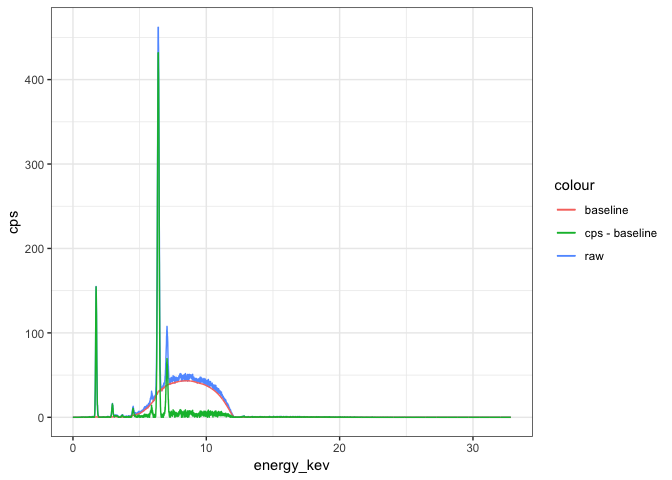
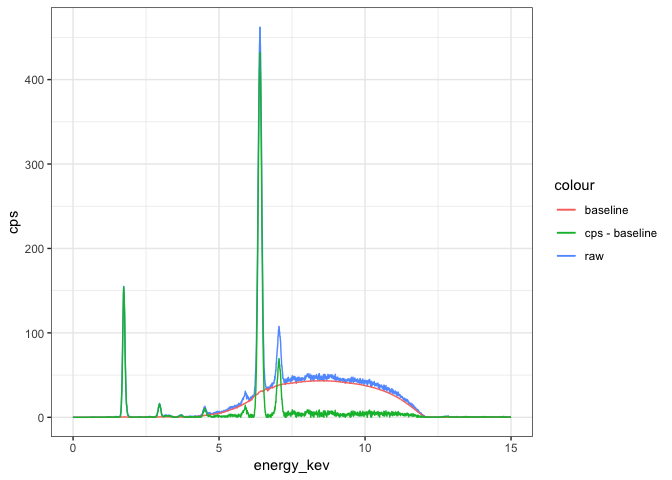
add smoothing function

diff --git a/README.md b/README.md
@@ -39,25 +39,55 @@ specs %>%
 ![](README-example-1.png)
 
 Baselines
-=========
+---------
 
 The **xrf** package can use several existing methods for estimating "background" or "baseline" values. The most useful of these for XRF spectra is the Sensitive Nonlinear Iterative Peak (SNIP) method, implemented in the **Peaks** package.
 
 ``` r
 specs %>%
-  xrf_add_baseline_snip(iterations = 20) %>%
   slice(3) %>%
+  xrf_add_baseline_snip(iterations = 20) %>%
   unnest() %>%
+  filter(energy_kev <= 15) %>%
   ggplot(aes(x = energy_kev)) +
   geom_line(aes(y = cps, col = "raw")) +
   geom_line(aes(y = baseline, col = "baseline")) +
   geom_line(aes(y = cps - baseline, col = "cps - baseline"))
+#> Warning: package 'bindrcpp' was built under R version 3.4.4
 ```
 
 ![](README-unnamed-chunk-2-1.png)
 
+Smoothing
+---------
+
+``` r
+specs %>%
+  slice(3) %>%
+  xrf_add_baseline_snip(iterations = 20) %>%
+  xrf_add_smooth_gaussian() %>%
+  unnest() %>%
+  filter(energy_kev <= 15) %>%
+  ggplot(aes(x = energy_kev)) +
+  geom_line(aes(y = cps, col = "raw"), alpha = 0.3) +
+  geom_line(aes(y = smooth - baseline, col = "smooth"))
+```
+
+![](README-unnamed-chunk-3-1.png)
+
 Peaks
-=====
+-----
+
+``` r
+energy_kev <- specs$.spectra[[1]]$energy_kev
+spec <- specs$.spectra[[1]]$fit
+peaks <- Peaks::SpectrumSearch(spec, background = TRUE, iterations = 15, threshold = .5)
+ggplot(tibble(energy_kev, spec, deconv = peaks$y), aes(energy_kev)) +
+  geom_line(aes(y = spec, col = "original")) +
+  geom_line(aes(y = deconv, col = "deconv")) +
+  geom_vline(xintercept = energy_kev[peaks$pos], alpha = 0.2, col = "red") +
+  scale_y_sqrt()
+```
 
 ``` r
 oreas22d <- specs %>%
